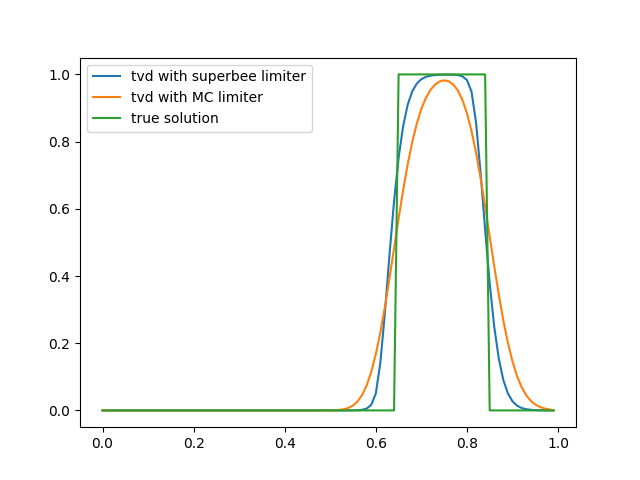
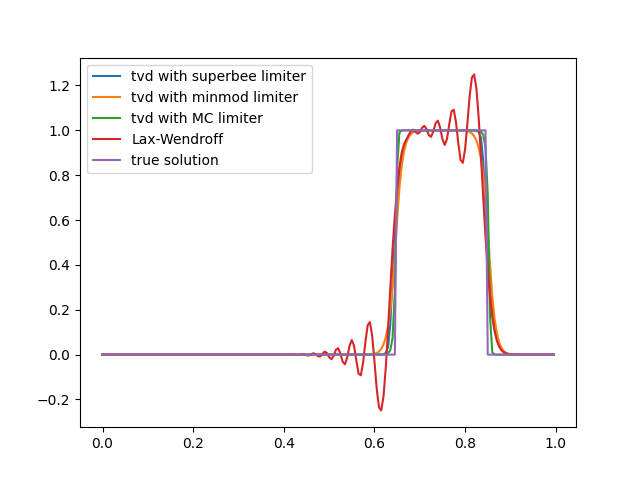
Fix 1d TVD schemes

diff --git a/advection_1d.py b/advection_1d.py
@@ -9,13 +9,13 @@ def plot_results(x, plots):
     for plot in plots:
         plt.plot(x, plot[0], label=plot[1])
     plt.legend()
-    plt.savefig('tvd.png')
+    plt.show()
 
 
 def lax_wendroff(c, u, h, tau):
     for n in range(1, c.shape[0]):
-        c[n, 1:-1] = (c[n - 1, 1:-1] - u/2/h*tau*(c[n - 1, 2:] - c[n - 1, :-2])
-                      + u**2*tau**2/2/h**2*(c[n - 1, 2:] - 2*c[n - 1, 1:-1] + c[n - 1, :-2]))
+        c[n, 1:-1] = (c[n - 1, 1:-1] - u / 2 / h * tau * (c[n - 1, 2:] - c[n - 1, :-2])
+                      + u ** 2 * tau ** 2 / 2 / h ** 2 * (c[n - 1, 2:] - 2 * c[n - 1, 1:-1] + c[n - 1, :-2]))
     return c
 
 
@@ -24,37 +24,31 @@ def minmod(r):
 
 
 def van_leer(r):
-    return (r + abs(r))/(1 + abs(r))
+    return (r + abs(r)) / (1 + abs(r))
 
 
 def mc(r):
-    return np.maximum(np.zeros(r.shape[0]), np.minimum(np.ones(r.shape[0])*2, 2*r, (1+r)/2))
+    return np.maximum(np.zeros(r.shape[0]), np.minimum(np.ones(r.shape[0]) * 2, 2 * r, (1 + r) / 2))
 
 
 def superbee(r):
-    return np.maximum(np.zeros(r.shape[0]), np.minimum(np.ones(r.shape[0]), 2*r), np.minimum(np.ones(r.shape[0])*2, r))
+    return np.maximum(np.zeros(r.shape[0]), np.minimum(np.ones(r.shape[0]), 2 * r),
+                      np.minimum(np.ones(r.shape[0]) * 2, r))
 
 
 def tvd(c, u, h, tau, limiter):
     phi = np.copy(c)
-    r1 = np.zeros(phi[0, 1:-1].shape[0])
-    r0 = np.zeros(phi[0, 1:-1].shape[0])
-    psi_0 = np.zeros(phi[0, 1:-1].shape[0])
-    psi_1 = np.zeros(phi[0, 1:-1].shape[0])
     for n in range(1, phi.shape[0]):
-        r1 = (phi[n - 1, 1:-1] - phi[n - 1, :-2])/(phi[n - 1, 2:] - phi[n - 1, 1:-1])
-        r0 = (phi[n - 1, 2:] - phi[n - 1, 1:-1])/(phi[n - 1, 1:-1] - phi[n - 1, :-2])
-        np.nan_to_num(r1, copy=False, nan=1)
-        np.nan_to_num(r0, copy=False, nan=1)
-        psi_1 = limiter(r1)
-        psi_0 = limiter(r0)
-        psi_1[psi_1 >= 10**5] = 0
-        psi_0[psi_0 >= 10**5] = 0
+        r1 = (phi[n - 1, 1:-1] - phi[n - 1, :-2]) / np.where(abs(phi[n - 1, 2:] - phi[n - 1, 1:-1]) > 0,
+                                                             phi[n - 1, 2:] - phi[n - 1, 1:-1], 1)
+        r0 = (phi[n - 1, :-2] - np.insert(phi[n - 1, :-3], 0, 0)) / np.where(
+            abs(phi[n - 1, 1:-1] - phi[n - 1, :-2]) > 0, phi[n - 1, 1:-1] - phi[n - 1, :-2], 1)
 
-        phi[n, 1:-1] = phi[n - 1, 1:-1] - u*tau/h*(((1/2*(1 + u*tau/h)*phi[n - 1, 1:-1] + 1/2*(1 - u*tau/h)*phi[n - 1, 2:])*psi_1
-                                                + (1 - psi_1)*phi[n-1, 1:-1])
-                                               - ((1/2*(1 + u*tau/h)*phi[n - 1, :-2] + 1/2*(1 - u*tau/h)*phi[n - 1, 1:-1])*psi_0
-                                                  + (1 - psi_0)*phi[n-1, :-2]))
+        psi1 = limiter(r1)
+        psi0 = limiter(r0)
+        mu = u * tau / h
+        phi[n, 1:-1] = phi[n - 1, 1:-1] - mu * (1 - 0.5 * (1 - mu) * psi0) * (phi[n - 1, 1:-1] - phi[n - 1, :-2]) \
+                       - 0.5 * mu * (1 - mu) * psi1 * (phi[n - 1, 2:] - phi[n - 1, 1:-1])
     return phi
 
 
@@ -62,21 +56,30 @@ if __name__ == '__main__':
     u = 0.1
     L = 1
     x0 = 0.5
-    r = 0.1
-    h = 0.01
-    tau = 0.02
+    r = 0.2
+    h = 0.0001
+    tau = 0.001
+    sigma = 0.05
     x = np.arange(0, L, h)
-    t = np.arange(0, (L - x0 - r)/u - 1.5, tau)
+    t = np.arange(0, (L - x0 - r) / u - 1.5, tau)
     c = np.zeros((t.shape[0], x.shape[0]))
     c[0] = np.where(abs(x0 - x) <= r, 1, 0)
     c1 = tvd(c, u, h, tau, mc)
-    # c2 = tvd(c, u, h, tau, minmod)
-    # c3 = tvd(c, u, h, tau,  van_leer)
+    c2 = tvd(c, u, h, tau, minmod)
+    c3 = tvd(c, u, h, tau, van_leer)
     c4 = tvd(c, u, h, tau, superbee)
-    theor = np.where(abs(x - x0 - t[-1]*u) <= r, 1, 0)
+    c_lw = lax_wendroff(c, u, h, tau)
+    np.save('tvd_1d/data/mc_h{}t{}'.format(h, tau), c1)
+    np.save('tvd_1d/data/minmod_h{}t{}'.format(h, tau), c2)
+    np.save('tvd_1d/data/superbee_h{}t{}'.format(h, tau), c4)
+    np.save('tvd_1d/data/lw_h{}t{}'.format(h, tau), c_lw)
+    T = (L - x0 - r) / u - 1.5
+    theor = np.where(abs(x - x0 - T * u) <= r, 1, 0)
+    np.save('tvd_1d/data/theor_h{}'.format(h), theor)
     plot_results(x, [
-                     (c4[-1], 'tvd with superbee limiter'),
-                     # (c3[-1], 'tvd with Van-Leer limiter'),
-                     # (c2[-1], 'tvd with minmod limiter'),
-                     (c1[-1], 'tvd with MC limiter'),
-                     (theor, 'true solution')])
+        (c4[-1], 'tvd with superbee limiter'),
+        (c3[-1], 'tvd with Van-Leer limiter'),
+        (c2[-1], 'tvd with minmod limiter'),
+        (c1[-1], 'tvd with MC limiter'),
+        (c_lw[-1], 'Lax-Wendroff'),
+        (theor, 'true solution')])

diff --git a/norms_tau.py b/norms_tau.py
@@ -1,0 +1,52 @@
+import numpy as np
+import matplotlib as mpl
+import matplotlib.pyplot as plt
+from advection_1d import lax_wendroff, minmod, van_leer, mc, superbee, tvd
+from norms import err_c, err_l2
+
+mpl.use('Qt5Agg')
+
+
+def error_from_tau_tvd_1d(c0, theor, x, u, h, tau_list, T, limiter):
+    errors_c = np.zeros(tau_list.size)
+    errors_l2 = np.zeros(tau_list.size)
+    for i in range(tau_list.size):
+        t = np.arange(0, T, tau_list[i])
+        c = np.zeros((t.shape[0], x.shape[0]))
+        c[0] = c0
+        c = tvd(c, u, h, tau_list[i], limiter)
+        print('tau {}: Success!'.format(i))
+        errors_c[i] = err_c(c[-1], theor)
+        errors_l2[i] = err_l2(c[-1], theor)
+    return errors_c, errors_l2
+
+
+def error_from_tau_lw(c0, theor, x, u, h, tau_list, T):
+    errors_c = np.zeros(tau_list.size)
+    errors_l2 = np.zeros(tau_list.size)
+    for i in range(tau_list.size):
+        t = np.arange(0, T, tau_list[i])
+        c = np.zeros((t.shape[0], x.shape[0]))
+        c[0] = c0
+        c = lax_wendroff(c, u, h, tau_list[i])
+        print('tau {}: Success!'.format(i))
+        errors_c[i] = err_c(c[-1], theor)
+        errors_l2[i] = err_l2(c[-1], theor)
+    return errors_c, errors_l2
+
+
+if __name__  == "__main__":
+    u = 0.1
+    L = 1
+    x0 = 0.5
+    r = 0.1
+    h = 0.0025
+    T = (L - x0 - r) / u - 1.5
+    tau_list = np.linspace(0.00001, 0.05, 100)
+    x = np.arange(0, L, h)
+    c0 = np.where(abs(x0 - x) <= r, 1, 0)
+    theor = np.where(abs(x - x0 - T * u) <= r, 1, 0)
+    errors_c, errors_l2 = error_from_tau_tvd_1d(c0, theor, x, u, h, tau_list, T, minmod)
+    plt.plot(1/tau_list, errors_l2)
+    plt.scatter(1/tau_list, errors_l2)
+    plt.show()

diff --git a/norms.py b/norms.py
@@ -1,0 +1,54 @@
+import numpy as np
+import matplotlib as mpl
+import matplotlib.pyplot as plt
+
+mpl.use('Qt5Agg')
+
+
+def err_l2(c, c_analyt):
+    return (np.sum((c - c_analyt)**2))**0.5/np.size(c)
+
+
+def err_c(c, c_analyt):
+    return np.max(np.abs(c-c_analyt))
+
+
+tau = 0.001
+method = 'lw'
+
+c1 = np.load('tvd_1d/data/{}_h0.0001t{}.npy'.format(method, tau))
+c2 = np.load('tvd_1d/data/{}_h0.00025t{}.npy'.format(method, tau))
+c3 = np.load('tvd_1d/data/{}_h0.0005t{}.npy'.format(method, tau))
+c4 = np.load('tvd_1d/data/{}_h0.00075t{}.npy'.format(method, tau))
+c5 = np.load('tvd_1d/data/{}_h0.001t{}.npy'.format(method, tau))
+
+
+theor1 = np.load('tvd_1d/data/theor_h0.0001.npy')
+theor2 = np.load('tvd_1d/data/theor_h0.00025.npy')
+theor3 = np.load('tvd_1d/data/theor_h0.0005.npy')
+theor4 = np.load('tvd_1d/data/theor_h0.00075.npy')
+theor5 = np.load('tvd_1d/data/theor_h0.001.npy')
+
+d1 = err_l2(c1[-1], theor1)
+d2 = err_l2(c2[-1], theor2)
+d3 = err_l2(c3[-1], theor3)
+d4 = err_l2(c4[-1], theor4)
+d5 = err_l2(c5[-1], theor5)
+
+plt.plot(np.log(np.array([0.0001, 0.00025, 0.0005, 0.00075, 0.001])), np.log(np.array([d1, d2, d3, d4, d5])))
+plt.scatter(np.log(np.array([0.0001, 0.00025, 0.0005, 0.00075, 0.001])), np.log(np.array([d1, d2, d3, d4, d5])))
+# plt.scatter(np.array([0.001, 0.0025, 0.005, 0.01, 0.02]), np.array([d1, d2, d3, d4, d5]))
+plt.show()
+
+
+# c1 = np.load('leapfrog/data/h100t5.npy')
+# c2 = np.load('leapfrog/data/h200t5.npy')
+# c3 = np.load('leapfrog/data/h400t5.npy')
+#
+#
+# d1 = div_c(c1[-1], c1[0])
+# d2 = div_c(c2[-1], c2[0])
+# d3 = div_c(c3[-1], c3[0])
+#
+# plt.plot(np.array([100, 200, 400]), np.array([d1, d2, d3]))
+# plt.show()

diff --git a/main.py b/main.py
@@ -18,7 +18,7 @@ def c1(x, y, x0, y0, r):
 
 def c2(x, y, x0, y0, r, sigma0, sigma1):
     x_mesh, y_mesh = np.meshgrid(x, y)
-    return np.where((((x_mesh-x0)**2/sigma0**2+(y_mesh-y0)**2/sigma1**2) > r**2), 0, np.e**(-((x_mesh-x0)**2/sigma0**2+(y_mesh-y0)**2/sigma1**2))).T
+    return np.where((((x_mesh-x0)**2/sigma0**2+(y_mesh-y0)**2/sigma1**2) > r**2), 0, np.e**(-0.5*((x_mesh-x0)**2/sigma0**2+(y_mesh-y0)**2/sigma1**2))).T
 
 
 def plot_solution_3d(x, y, solution):
@@ -42,19 +42,20 @@ if __name__ == '__main__':
     r = 1000
     sigma0 = 500
     sigma1 = 700
-    omega = 0.0005
+    omega = 0.0002*np.pi
     L = 5000
     h = 100
     tau = 5
     T = 2*np.pi/omega
     x = np.arange(-L, L, h)
     y = np.arange(-L, L, h)
-    t = np.arange(0, T, tau)
+    t = np.arange(0, T+1, tau)
     c = np.zeros((t.shape[0], x.shape[0], y.shape[0]))
     c[0] = c0(x, y, x0, y0, r, sigma0)
     u = -omega*y
     v = omega*x
     v, u = np.meshgrid(v, u)
     c = leapfrog(c, tau, h, u, v)
+    # np.save('corner_transport_upwind/data/h100t5', c)
     plot_solution_3d(x, y, np.round(c[-1], 6))
 

diff --git a/schemes.py b/schemes.py
@@ -46,5 +46,8 @@ def corner_transport_upwind(c, tau, h, u, v):
 
 def flux_limiter(c, tau, h, u, v):
     for n in range(1, c.shape[0]):
-        f = np.zeros(c.shape[1:])
-        g = np.zeros(c.shape[1:])
+        f = np.zeros(u.shape)
+        g = np.zeros(v.shape)
+        R = c[n-1, 1:-1, 1:-1] - c[n-1, :-2, 1:-1]
+        f += u[:-1, 1:-1]*np.where(u > 0, c[n-1, 1:, 1:-1], c[n-1, :-1, 1:-1])
+        g -= tau/2/h*u[:-1, 1:-1]*R*np.where(v > 0, )
